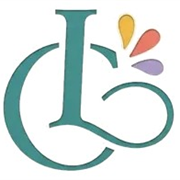
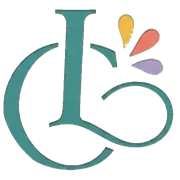
commit

diff --git a/src/components/wedding/Logo.tsx b/src/components/wedding/Logo.tsx
@@ -7,7 +7,7 @@ export function Logo({ className, ring = true, eager }: { className?: string; ri
   return (
     <span
       className={cn(
-        "relative inline-block shrink-0 overflow-hidden rounded-full bg-night",
+        "relative inline-block shrink-0 overflow-hidden rounded-full",
         ring && "ring-1 ring-gold/60 shadow-[0_0_24px_-4px_var(--ocean)]",
         className,
       )}
@@ -19,7 +19,7 @@ export function Logo({ className, ring = true, eager }: { className?: string; ri
         height={512}
         loading={eager ? "eager" : "lazy"}
         decoding="async"
-        className="h-full w-full object-cover"
+        className="h-full w-full object-contain"
       />
     </span>
   );
